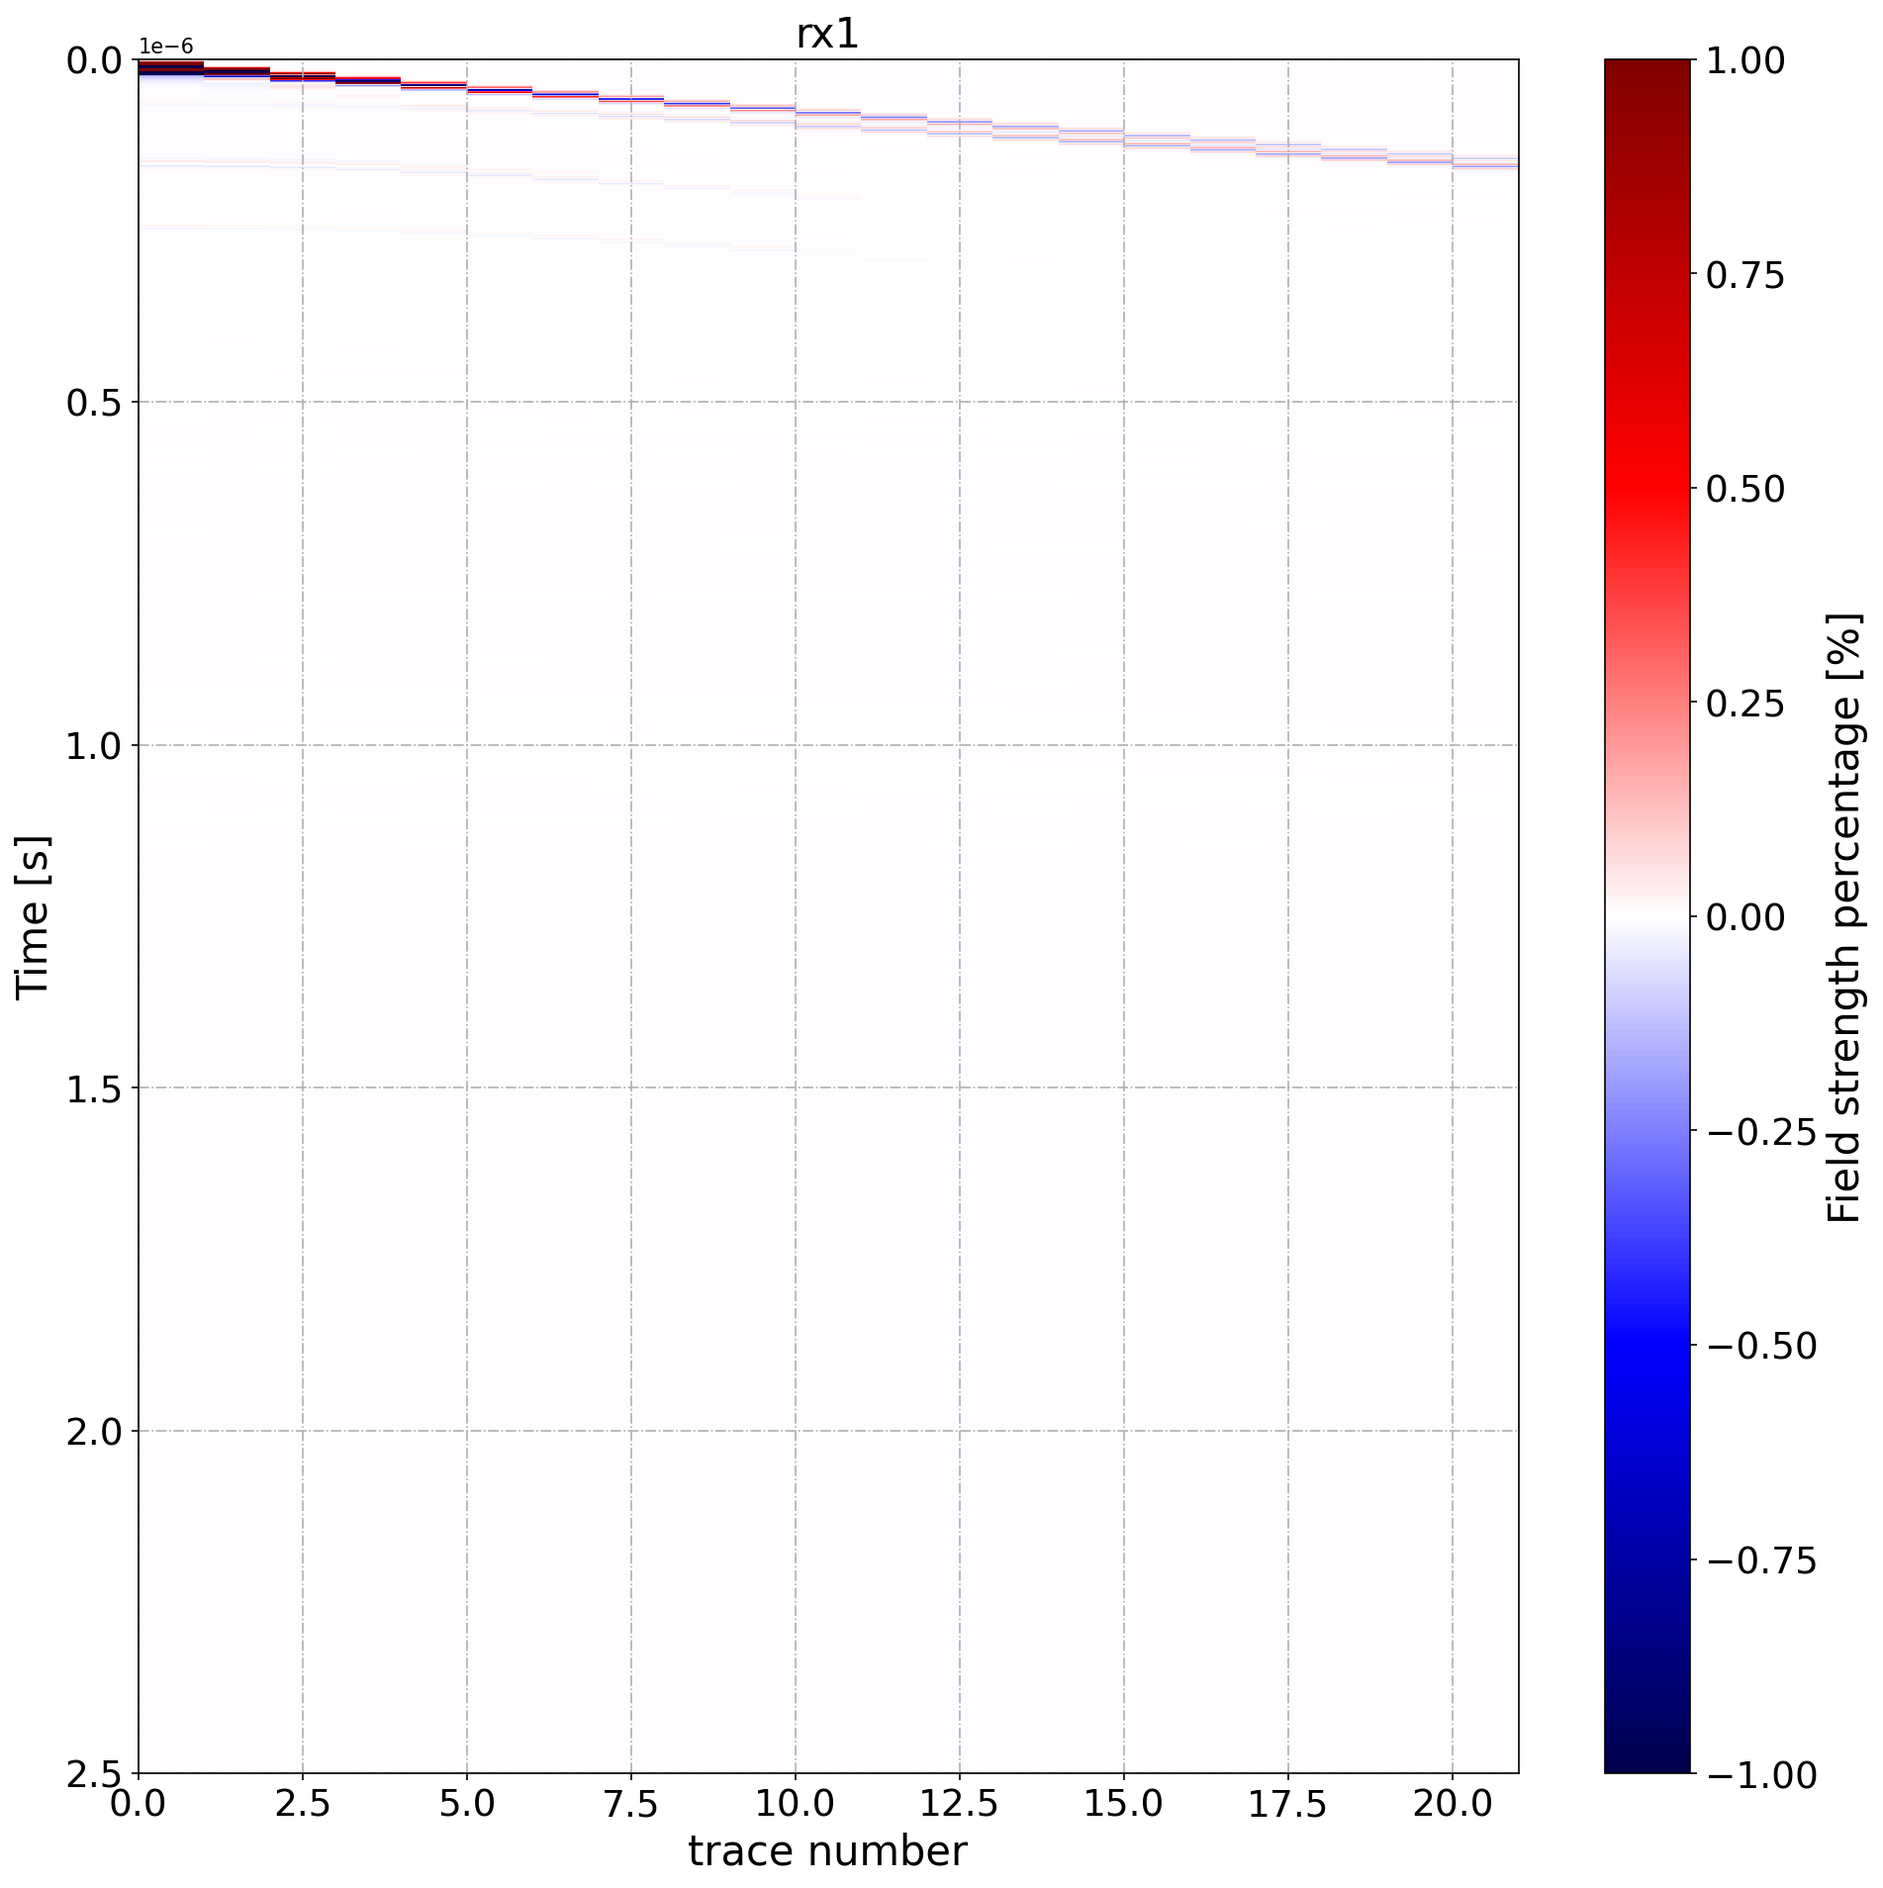
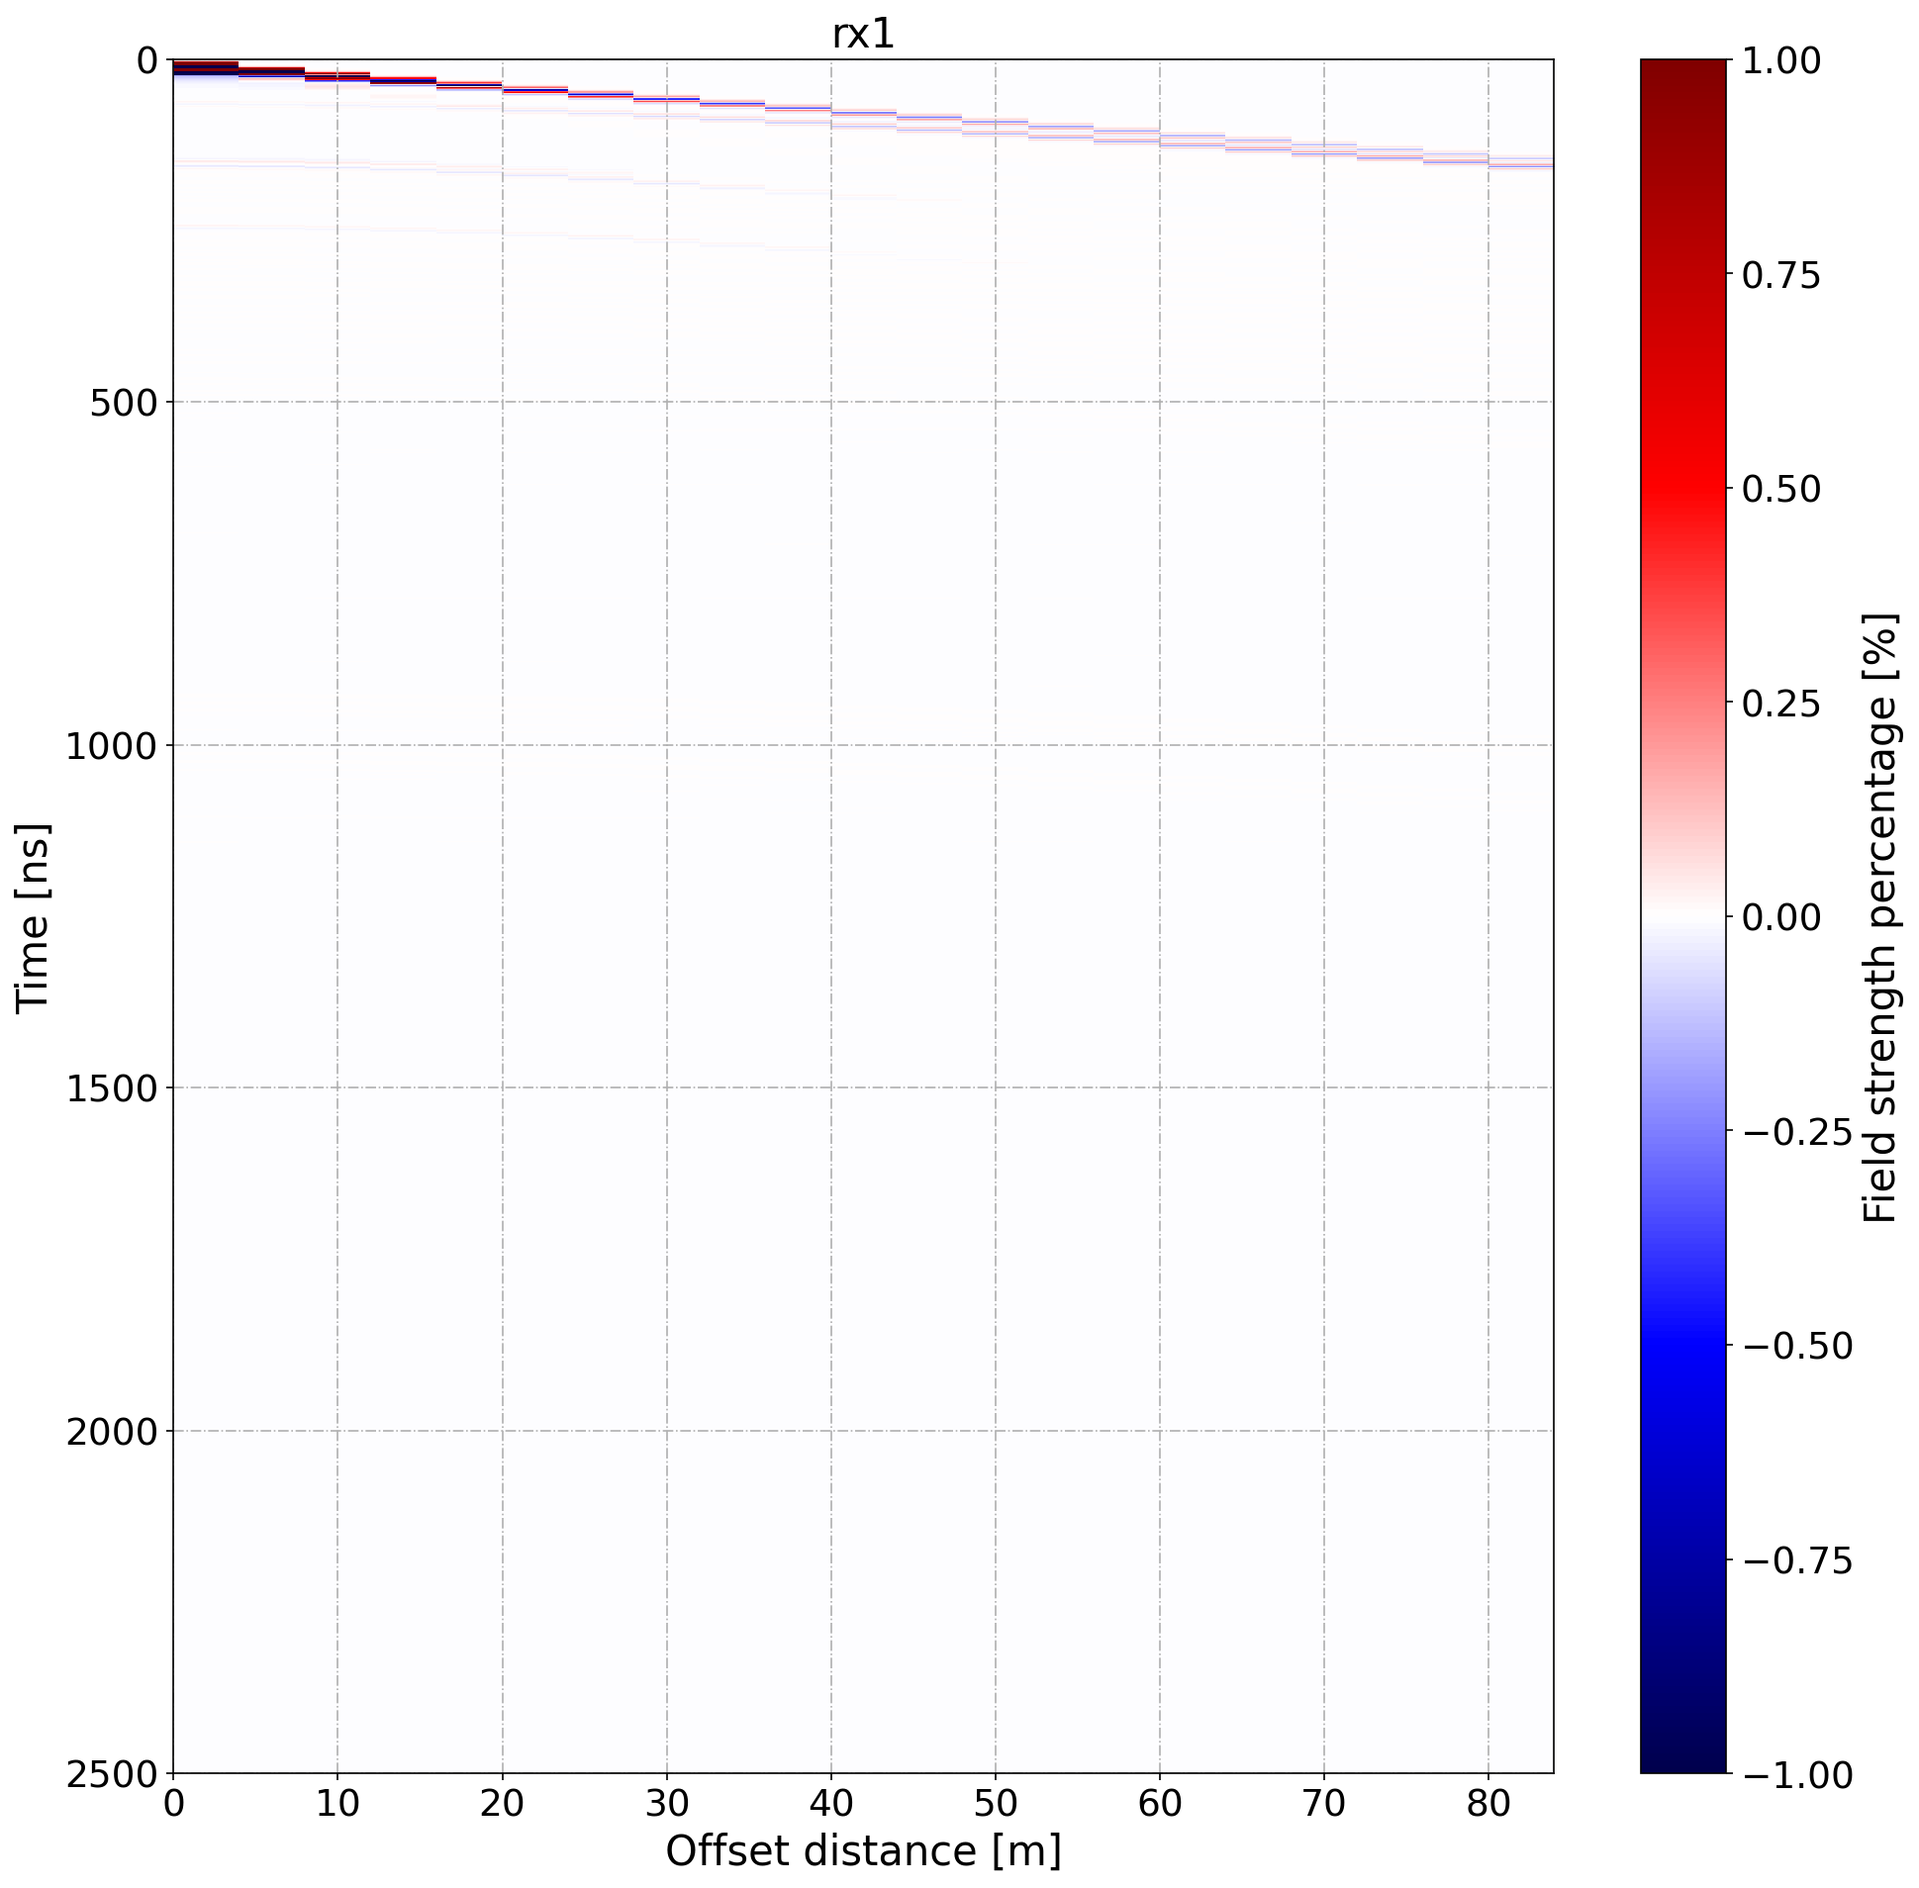
ゲイン関数作った

diff --git a/tools/gain_function.py b/tools/gain_function.py
@@ -1,0 +1,156 @@
+import numpy as np
+import argparse
+import json
+import os
+
+import h5py
+import matplotlib.colors as colors
+import matplotlib.pyplot as plt
+import mpl_toolkits.axes_grid1 as axgrid1
+from tqdm import tqdm
+
+from tools.outputfiles_merge import get_output_data
+from itertools import combinations
+import matplotlib as mpl
+from tools.calc_Vrms_from_geometry import calc_Vrms
+from mpl_toolkits.axes_grid1 import ImageGrid
+
+
+#* Parse command line arguments
+parser = argparse.ArgumentParser(
+    prog='gain_function.py',
+    description='Process gain function',
+    epilog='End of help message',
+    usage='python -m tools.gain_function jsonfile'
+)
+parser.add_argument('jsonfile', help='json file path')
+args = parser.parse_args()
+
+
+#* load jason data
+with open (args.jsonfile) as f:
+    params = json.load(f)
+
+
+#* load B-scan data
+#* Chech wheter if json file has 'out_file' key or 'txt_Bscan_file' key
+if 'out_file' in params:
+    data_path = params['out_file']
+    data, dt = get_output_data(data_path, 1, 'Ez')
+    print('input is out_file')
+elif 'txt_Bscan_file' in params:
+    data_path = params['original_info']['original_out_file']
+    data, dt = get_output_data(data_path, 1, 'Ez')
+    data = np.loadtxt(params['txt_Bscan_file'])
+    print('input is extracted B-scan data txt file')
+else:
+    raise ValueError('Invalid key: out_file or txt_Bscan_file')
+print('data shape: ', data.shape)
+print('dt: ', dt)
+t = np.arange(0, data.shape[0] * dt, dt) # [s]
+print(np.max(t))
+
+
+#* gain function
+def gain(Ascan):
+    #* setting parameters
+    c = 3e8 # [m/s]
+    f = params['pulse_info']['center_frequency'] # [Hz]
+    eps_r = 6
+    loss_tangent = 0.001
+    wabelength = c / f / np.sqrt(eps_r)
+    alpha = np.pi / wabelength * np.sqrt(eps_r) * loss_tangent
+
+    r = t * c / np.sqrt(eps_r) / 2
+    Gain = r**2 * np.exp(2 * alpha * r)
+    #plt.plot(t*1e9, Gain)
+    #plt.yscale('log')
+    #plt.grid()
+    #plt.show()
+
+    gained_Ascan = Ascan * Gain
+    return gained_Ascan
+
+
+#* use gain function to data
+gained_data = np.zeros(data.shape)
+for i in tqdm(range(data.shape[1])):
+    gained_data[:, i] = gain(data[:, i])
+
+
+#* Normalize
+data = data / np.amax(np.abs(data))
+gained_data = gained_data / np.amax(np.abs(gained_data))
+print('original data shape: ', data.shape)
+print('gained data shape: ', gained_data.shape)
+
+
+#* plot
+font_large = 20
+font_medium = 18
+font_small = 16
+color_max = 0.01
+color_min = -0.01
+"""
+fig = plt.figure(figsize=(15, 7))
+grid = ImageGrid(fig, 111, nrows_ncols=(1, 2),
+                axes_pad=0.15, cbar_mode='single', cbar_location='right', cbar_pad=0.15)
+
+ax1 = grid[0]
+im1 = ax1.imshow(data, aspect='auto', cmap='seismic',
+            vmin=color_min, vmax=color_max,
+            extent=[0, data.shape[1]*2, data.shape[0]*dt*1e9, 0])
+ax1.set_title('original data', fontsize=font_large)
+ax1.grid()
+ax1.tick_params(labelsize=font_medium)
+
+ax = grid[1]
+im = ax.imshow(gained_data, aspect='auto', cmap='seismic',
+            vmin=color_min, vmax=color_max,
+            extent=[0, data.shape[1]*2, data.shape[0]*dt*1e9, 0])
+ax.set_title('Gain compensation', fontsize=font_large)
+ax.grid()
+ax.tick_params(labelsize=font_medium)
+
+cbar = grid.cbar_axes[0].colorbar(im1)
+cbar.ax.axis('off')
+cbar.set_label('Normalized amplitude', fontsize=font_medium)
+cbar.ax.tick_params(labelsize=font_medium)
+
+fig.supxlabel('Offset [m]', fontsize=font_large)
+fig.supylabel('Time [ns]', fontsize=font_large)
+#plt.tight_layout()
+plt.show()
+"""
+antenna_step = params['antenna_settings']['rx_step'] * 2
+fig, ax = plt.subplots(1, 2, figsize=(12, 6), sharex=True, sharey=True)
+
+color_max = 0.01
+color_min = -0.01
+
+ax[0].imshow(data, aspect='auto', cmap='seismic',
+            vmin=color_min, vmax=color_max,
+            #extent=[0, data.shape[1]*antenna_step, data.shape[0]*dt*1e9, 0]
+            )
+ax[0].set_title('original data', fontsize=font_large)
+ax[0].grid()
+ax[0].tick_params(labelsize=font_medium)
+
+ax[1].imshow(gained_data, aspect='auto', cmap='seismic',
+            vmin=color_min, vmax=color_max,
+            extent=[0, data.shape[1]*antenna_step, data.shape[0]*dt*1e9, 0])
+ax[1].set_title('Gain compensation', fontsize=font_large)
+ax[1].grid()
+ax[1].tick_params(labelsize=font_medium)
+
+
+fig.colorbar(ax[0].imshow(data, aspect='auto', cmap='seismic',
+            vmin=color_min, vmax=color_max,
+            extent=[0, data.shape[1]*antenna_step, data.shape[0]*dt*1e9, 0]), ax=ax[1],
+            location='right', orientation='vertical', label='Normalized amplitude')
+
+
+fig.supxlabel('Offset [m]', fontsize=font_large)
+fig.supylabel('Time [ns]', fontsize=font_large)
+plt.tight_layout()
+plt.show()
